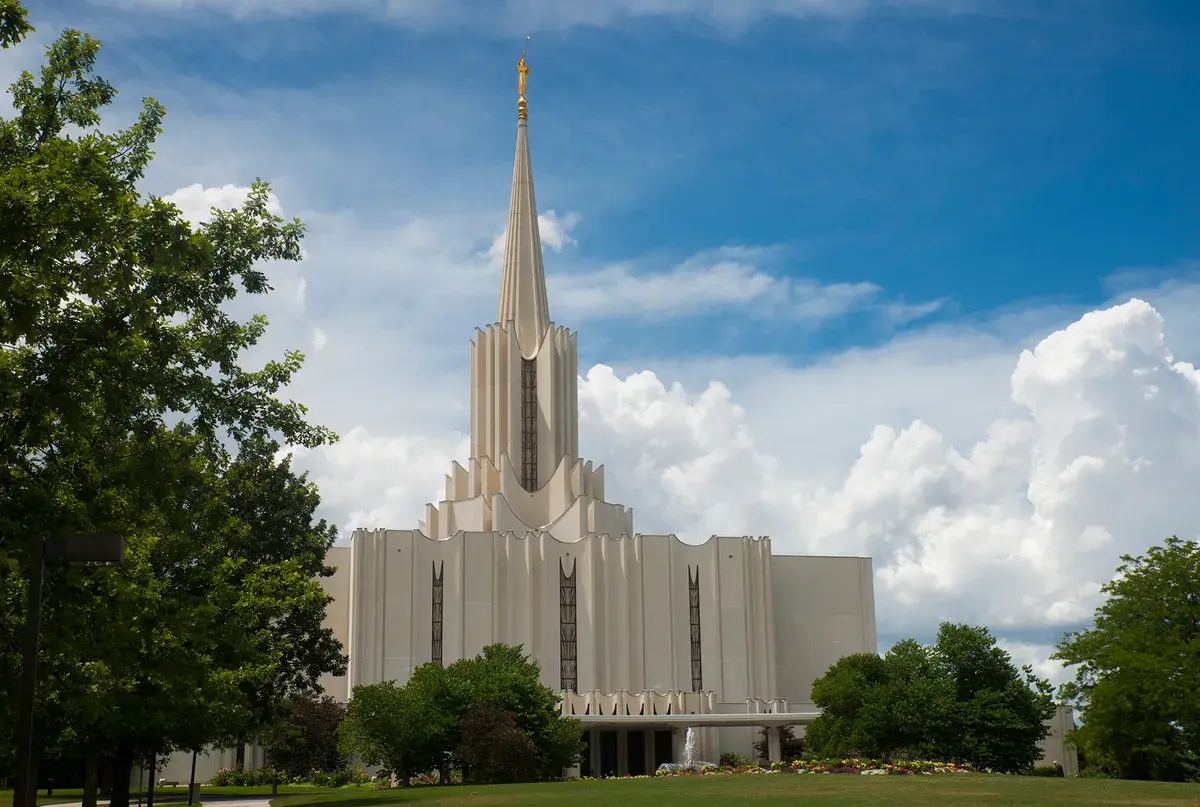
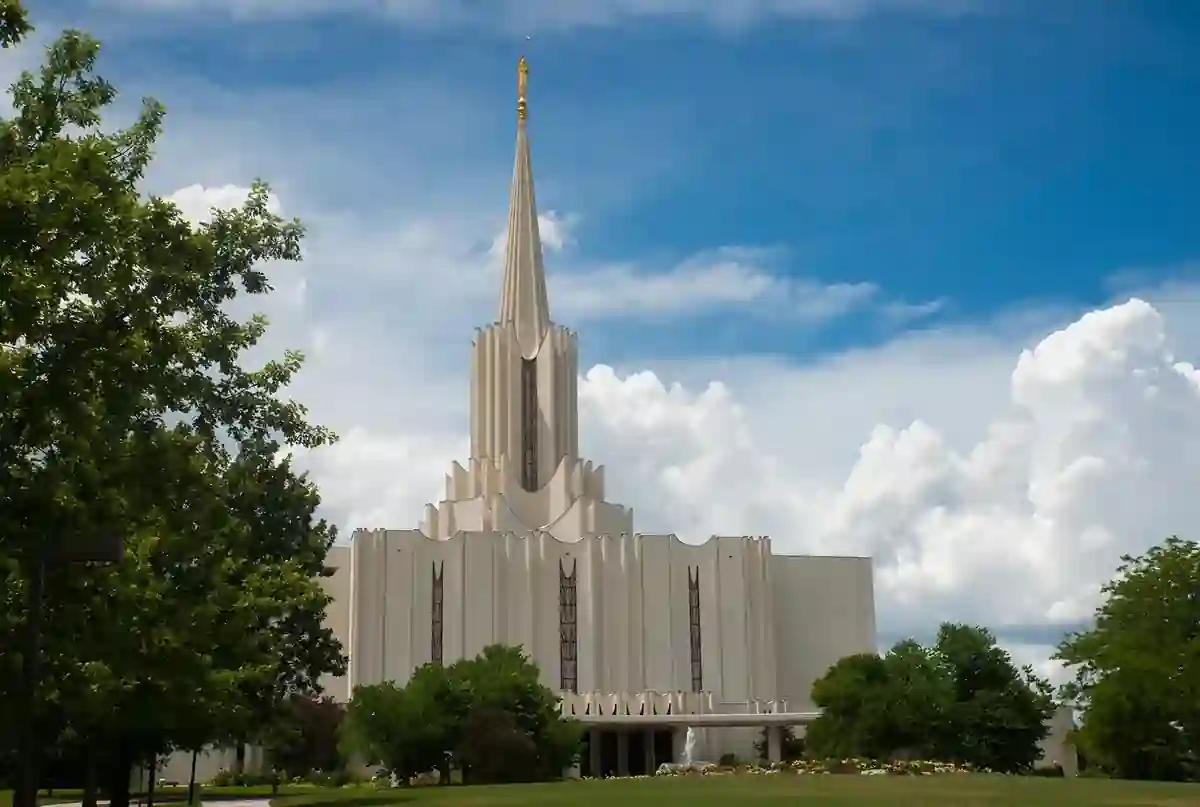
Completed Responsive images assignment and compressed images for index.html

diff --git a/index.html b/index.html
@@ -77,6 +77,9 @@
                         <li>
                             <p><a href="week03/lazyload.html">Lazy Loading</a></p>
                         </li>
+                        <li>
+                            <p><a href="https://codepen.io/LetsGetJiggyWithIt/pen/dyjZEVy">Responsive Images</a></p>
+                        </li>
                     </ul>
                 </section>
                 <section class="card">
